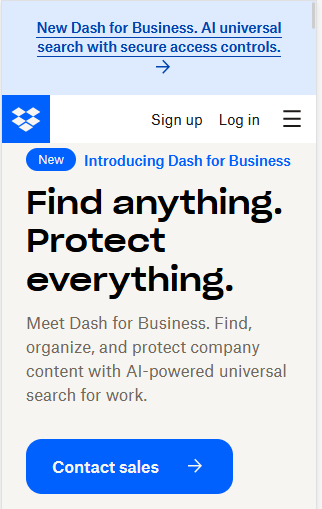
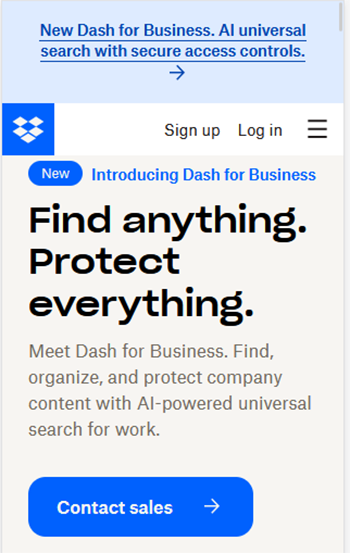
finished lesson 02

diff --git a/lesson02/design-principles.html b/lesson02/design-principles.html
@@ -9,6 +9,8 @@
     <meta name="author" content="Stephen Scott">
     <link rel="stylesheet" href="../styles/normalize.css">
     <link rel="stylesheet" href="styles/design-principles.css">
+    <link rel="stylesheet" href="styles/design-principles-large.css">
+    <link rel="stylesheet" href="styles/design-principles-larger.css">
 
 </head>
 
@@ -21,25 +23,39 @@
         <section class="examples" id="ex1">
             <h3>Hick's Law - Google</h3>
             <div>
-                <a href="https://www.google.com/">Google.com</a>
+                <a target="_blank" rel="noopener noreferrer" href="https://www.google.com/">Google.com</a>
                 <img src="images/google.png" alt="Screenshot of Google">
-                <p>blah blah blah</p>
+                <p>The landing page of Google.com is a perfect example of Hick's Law. Hick's Law is the concept that the
+                    more choices there are on the page the longer it will take for the viewer to come to a decision.
+                    Google does a great job at limiting the choices available on the landing page. There is the main
+                    item which is the search bar and a few other options. This moves you right along to the main purpose
+                    of the website, your search results.</p>
             </div>
         </section>
         <section class="examples" id="ex2">
             <h3>Fitt's Law - Dropbox</h3>
             <div>
-                <a href="https://www.dropbox.com/">Dropbox.com</a>
+                <a target="_blank" rel="noopener noreferrer" href="https://www.dropbox.com/">Dropbox.com</a>
                 <img src="images/dropbox.png" alt="Sceenshot of Dropbox">
-                <p>blah blah blah</p>
+                <p>Fitt’s Law explains the relationship between the size of the target, the distance to the target, and
+                    the time it takes to press the target. Basically, this means that user design must take the button
+                    size and crowding around clickable areas into consideration. An excellent example of this is
+                    Dropbox’s Contact sales button. It is big and easy to click, and the design of the button draws your
+                    attention to it right away. </p>
             </div>
         </section>
         <section class="examples" id="ex3">
             <h3>Visual Heirarchy - Typeform</h3>
             <div>
-                <a href="https://www.typeform.com/">Typeform.com</a>
+                <a target="_blank" rel="noopener noreferrer" href="https://www.typeform.com/">Typeform.com</a>
                 <img src="images/typeform.jpg" alt="Screenshot of Typeform">
-                <p>blah blah blah</p>
+                <p>The website Typeform.com uses visual hierarchy to grab the attention of the viewer and easily convey
+                    the purpose of the website. Visual hierarchy is using different visuals to direct your eye accross
+                    the screen. Looking at the screenshot above your sight is immediately drawn to the
+                    heading. This is because of both the font size and the white space around the heading. After seeing
+                    the headline, you are lured to the animation that is taking place in the purple box. This animation
+                    shows examples of the forms that you can use. Then immediately after you are directed to the
+                    call-to-action box to “get started – it’s free”. </p>
             </div>
         </section>
     </main>

diff --git a/lesson02/styles/design-principles.css b/lesson02/styles/design-principles.css
@@ -2,6 +2,8 @@
 
 body {
     background-color: var(--background-color);
+    display: flex;
+    flex-direction: column;
 
 }
 
@@ -10,25 +12,35 @@ h2,
 h3 {
     color: var(--background-color);
     font-family: var(--heading-font);
+    letter-spacing: .08em;
+
 }
 
 header {
     background-color: var(--primary-color);
-    grid-template-columns: 1/4;
+    display: block;
+    padding: 1rem;
+    margin-bottom: 1rem;
+    text-align: center;
 
 }
 
 main {
+    flex: 1;
     display: grid;
-    grid-template-columns: 1fr 1fr 1fr;
-    column-gap: 1vw;
-    padding: 0 5%;
+    grid-template-rows: 1fr 1fr 1fr;
+    row-gap: 1rem;
+    padding: 0 1rem;
+    margin: 0 auto;
+    max-width: 100vw;
 
 }
 
 .examples {
     background-color: var(--nav-color);
-
+    display: flex;
+    align-content: center;
+    flex-direction: column;
 }
 
 h3 {
@@ -36,25 +48,53 @@ h3 {
     margin: 0;
     text-align: center;
     padding: 2vw;
+    display: block;
+    font-size: 1.3rem;
 }
 
 div {
     margin: 0 1vw;
     display: grid;
     grid-template-rows: auto auto auto;
+
 }
 
 .examples div a {
     grid-row: 1/2;
-    padding: 1vw;
+    display: inline-block;
+    text-decoration: none;
+    text-align: center;
+    font: 1.1rem var(--paragraph-font);
+    color: var(--color-on-light);
+    margin: 1rem;
+    padding: .5rem;
+}
+
+.examples div a:hover {
+    background-color: var(--primary-color);
+    color: var(--background-color);
 }
 
 .examples div img {
     grid-row: 2/3;
-    max-width: ;
+    max-width: 100vw;
     height: auto;
+    margin: 0 auto;
 }
 
 .examples div p {
     grid-row: 3/4;
+    text-indent: 1.5rem;
+    text-align: justify;
+    padding: 0 1rem;
+    font: 1.1rem var(--paragraph-font);
+    color: var(--color-on-light);
+    letter-spacing: .01em;
+    font-weight: 600;
+}
+
+footer {
+    text-align: center;
+    font: 1rem var(--paragraph-font);
+    color: var(--color-on-light);
 }

diff --git a/styles/base.css b/styles/base.css
@@ -1,14 +1,8 @@
 @import url('https://fonts.googleapis.com/css2?family=Pridi:wght@700&display=swap');
 @import url('https://fonts.googleapis.com/css2?family=Playfair+Display:ital,wght@0,400..900;1,400..900&display=swap');
+@import url(../../styles/colors-and-fonts.css);
 
-:root {
-    --primary-color: #123935;
-    --background-color: #efeff0;
-    --nav-color: #73503C;
-    --heading-font: 'Pridi', serif;
-    --paragraph-font: 'Playfair Display', serif;
-    --color-on-light: #0D0D0D;
-}
+
 
 body {
     justify-content: center;
@@ -52,13 +46,13 @@ header h1 {
 }
 
 nav {
-    font: 1vw var(--paragraph-font);
+    font: 1vw var(--heading-font);
     font-weight: 700;
     grid-column: 2/3;
     grid-row: 2/3;
     flex-direction: column;
     align-items: center;
-    background-color: var(--color-on-light);
+    background-color: var(--nav-color);
     padding: 0;
 }
 
@@ -69,20 +63,26 @@ nav ul {
     text-align: center;
 }
 
+nav ul li:hover {
+    background-color: var(--primary-color);
+}
+
 nav a {
     display: block;
     padding: 1vw;
     font-size: clamp(16px, 1vw, 24px);
-    color: var(--background-color);
+    color: var(--primary-color);
     text-decoration: none;
     text-align: center;
+    white-space: nowrap;
 
 }
 
 
 
 nav a:hover {
-    color: var(--primary-color);
+    color: var(--background-color);
+
 }
 
 main {

diff --git a/under-construction/underconstruction.html b/under-construction/underconstruction.html
@@ -1,0 +1,31 @@
+<!DOCTYPE html>
+<html lang="en">
+
+<head>
+
+    <head>
+        <meta charset="UTF-8">
+        <meta name="viewport" content="width=device-width, initial-scale=1.0">
+        <title>Stephen Scott - WDD 230 - Web Frontend Development</title>
+        <meta name="description" content="WDD 230 - Web Frontend Development, Stephen Scott, Course assignment portal">
+        <meta name="author" content="Stephen Scott">
+        <link rel="stylesheet" href="../styles/normalize.css">
+        <link rel="stylesheet" href="../styles/base.css">
+        <link rel="stylesheet" href="../styles/larger.css">
+        <link rel="icon" type="image/ico" href="../images/favicon.ico">
+
+        <!--Open Graph Meta Tags-->
+        <meta property="og:type" content="website">
+        <meta property="og:url" content="https://stephenscottbyui.github.io/wdd230/">
+        <meta property="og:image" content="images/bluffton.jpg">
+        <meta property="og:title" content="Stephen Scott's WDD230 Homepage">
+
+
+    </head>
+</head>
+
+<body>
+    <p>This page is under construction</p>
+</body>
+
+</html>

diff --git a/index.html b/index.html
@@ -44,9 +44,9 @@
             <ul>
                 <li> <a href="lesson02/design.html"> Lesson 02 Design</a></li>
                 <li> <a href="lesson02/media-query.html">Lesson 02 Media Query</a></li>
-                <li> <a href=""></a></li>
-                <li> <a href=""></a></li>
-                <li> <a href=""></a></li>
+                <li> <a href="lesson02/design-principles.html">Lesson 02 Design Principles</a></li>
+                <li> <a href="under-construction/underconstruction.html">-</a></li>
+                <li> <a href="under-construction/underconstruction.html">-</a></li>
             </ul>
         </section>
         <section class="card" id="info">

diff --git a/lesson02/styles/design-principles-large.css b/lesson02/styles/design-principles-large.css
@@ -1,0 +1,14 @@
+@media screen and (min-width: 500px) {
+
+    main {
+        display: grid;
+        grid-template-columns: 1fr 1fr;
+        grid-template-rows: auto;
+        column-gap: 1rem;
+    }
+
+    #ex2 {
+        grid-column: 2/3;
+        grid-row: 1/2;
+    }
+}

diff --git a/lesson02/styles/design-principles-larger.css b/lesson02/styles/design-principles-larger.css
@@ -1,0 +1,11 @@
+@media screen and (min-width: 1200px) {
+
+    main {
+        display: grid;
+        grid-template-columns: 1fr 1fr 1fr;
+        grid-template-rows: auto;
+        column-gap: 1rem;
+    }
+
+
+}
